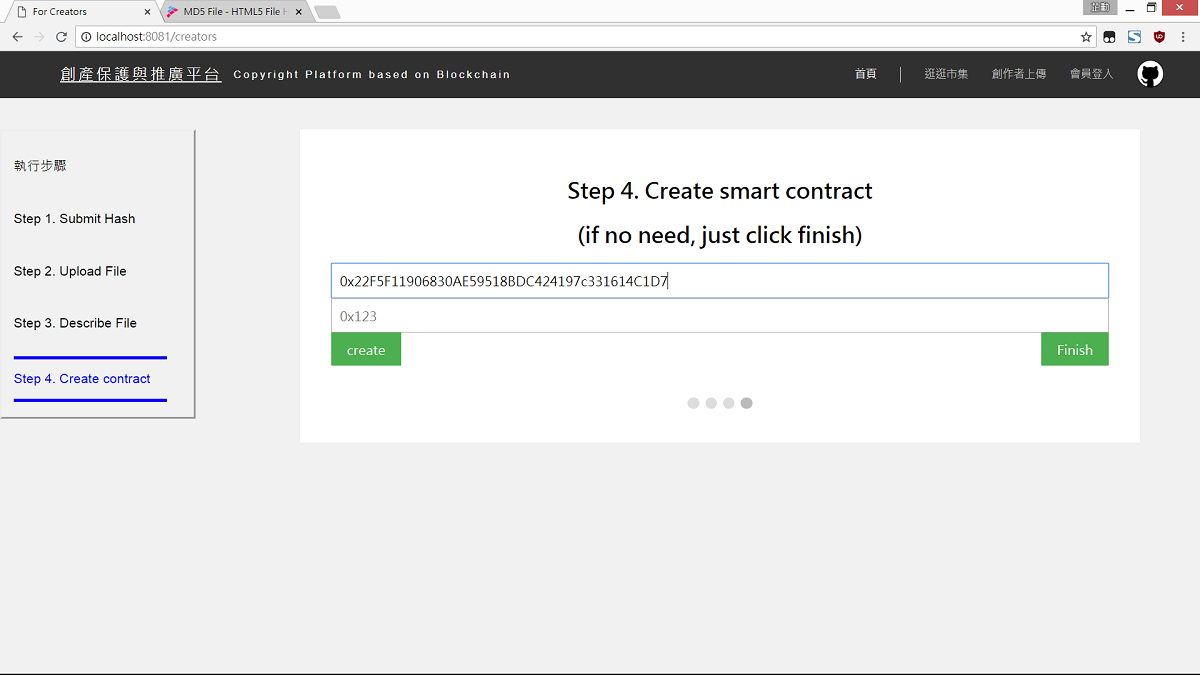
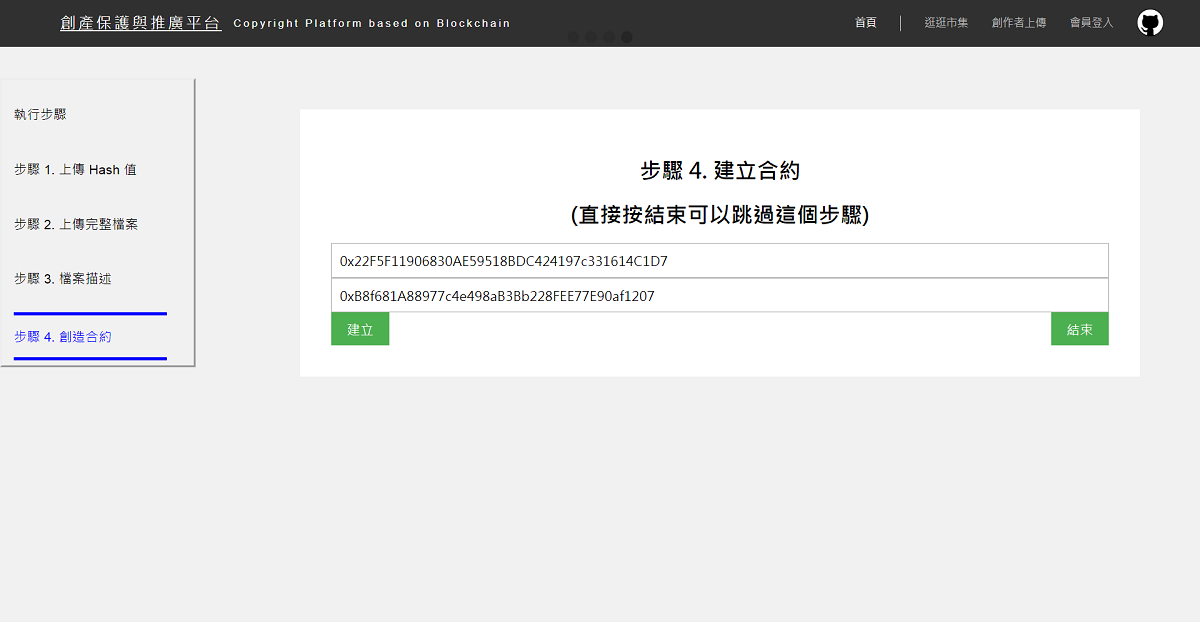
Add chinese script

diff --git a/public/topBar.html b/public/topBar.html
@@ -1,6 +1,6 @@
 <nav class="navi_bar">
 	<div class="navi_logo">
-		<a class="navi_logo_tw" href="/">創產保護與推廣平台</a>
+		<a class="navi_logo_tw" href="/">創意保護與推廣平台</a>
 		<div class="navi_logo_en">Copyright Platform based on Blockchain</div>
 	</div>
 	<div class="navi_wrap_buttonarea" id="prevBar">

diff --git a/controllers/creators.js b/controllers/creators.js
@@ -12,7 +12,7 @@ router.get('/', function(req, res, next) {
 		console.log("creators not login");
 		res.redirect('../login');
     } else {
-        res.render('creators', { title: 'For Creators' });
+        res.render('creators', { title: '創作者上傳' });
     }
 });
 

diff --git a/public/css/style.css b/public/css/style.css
@@ -220,7 +220,7 @@ button:hover {
     min-width: 160px;
     box-shadow: 0px 8px 16px 0px rgba(0,0,0,0.2);
 	z-index: 1;
-	top: 13%;
+	top: 8%;
 }
 .dropdown-content a {
     float: none;
